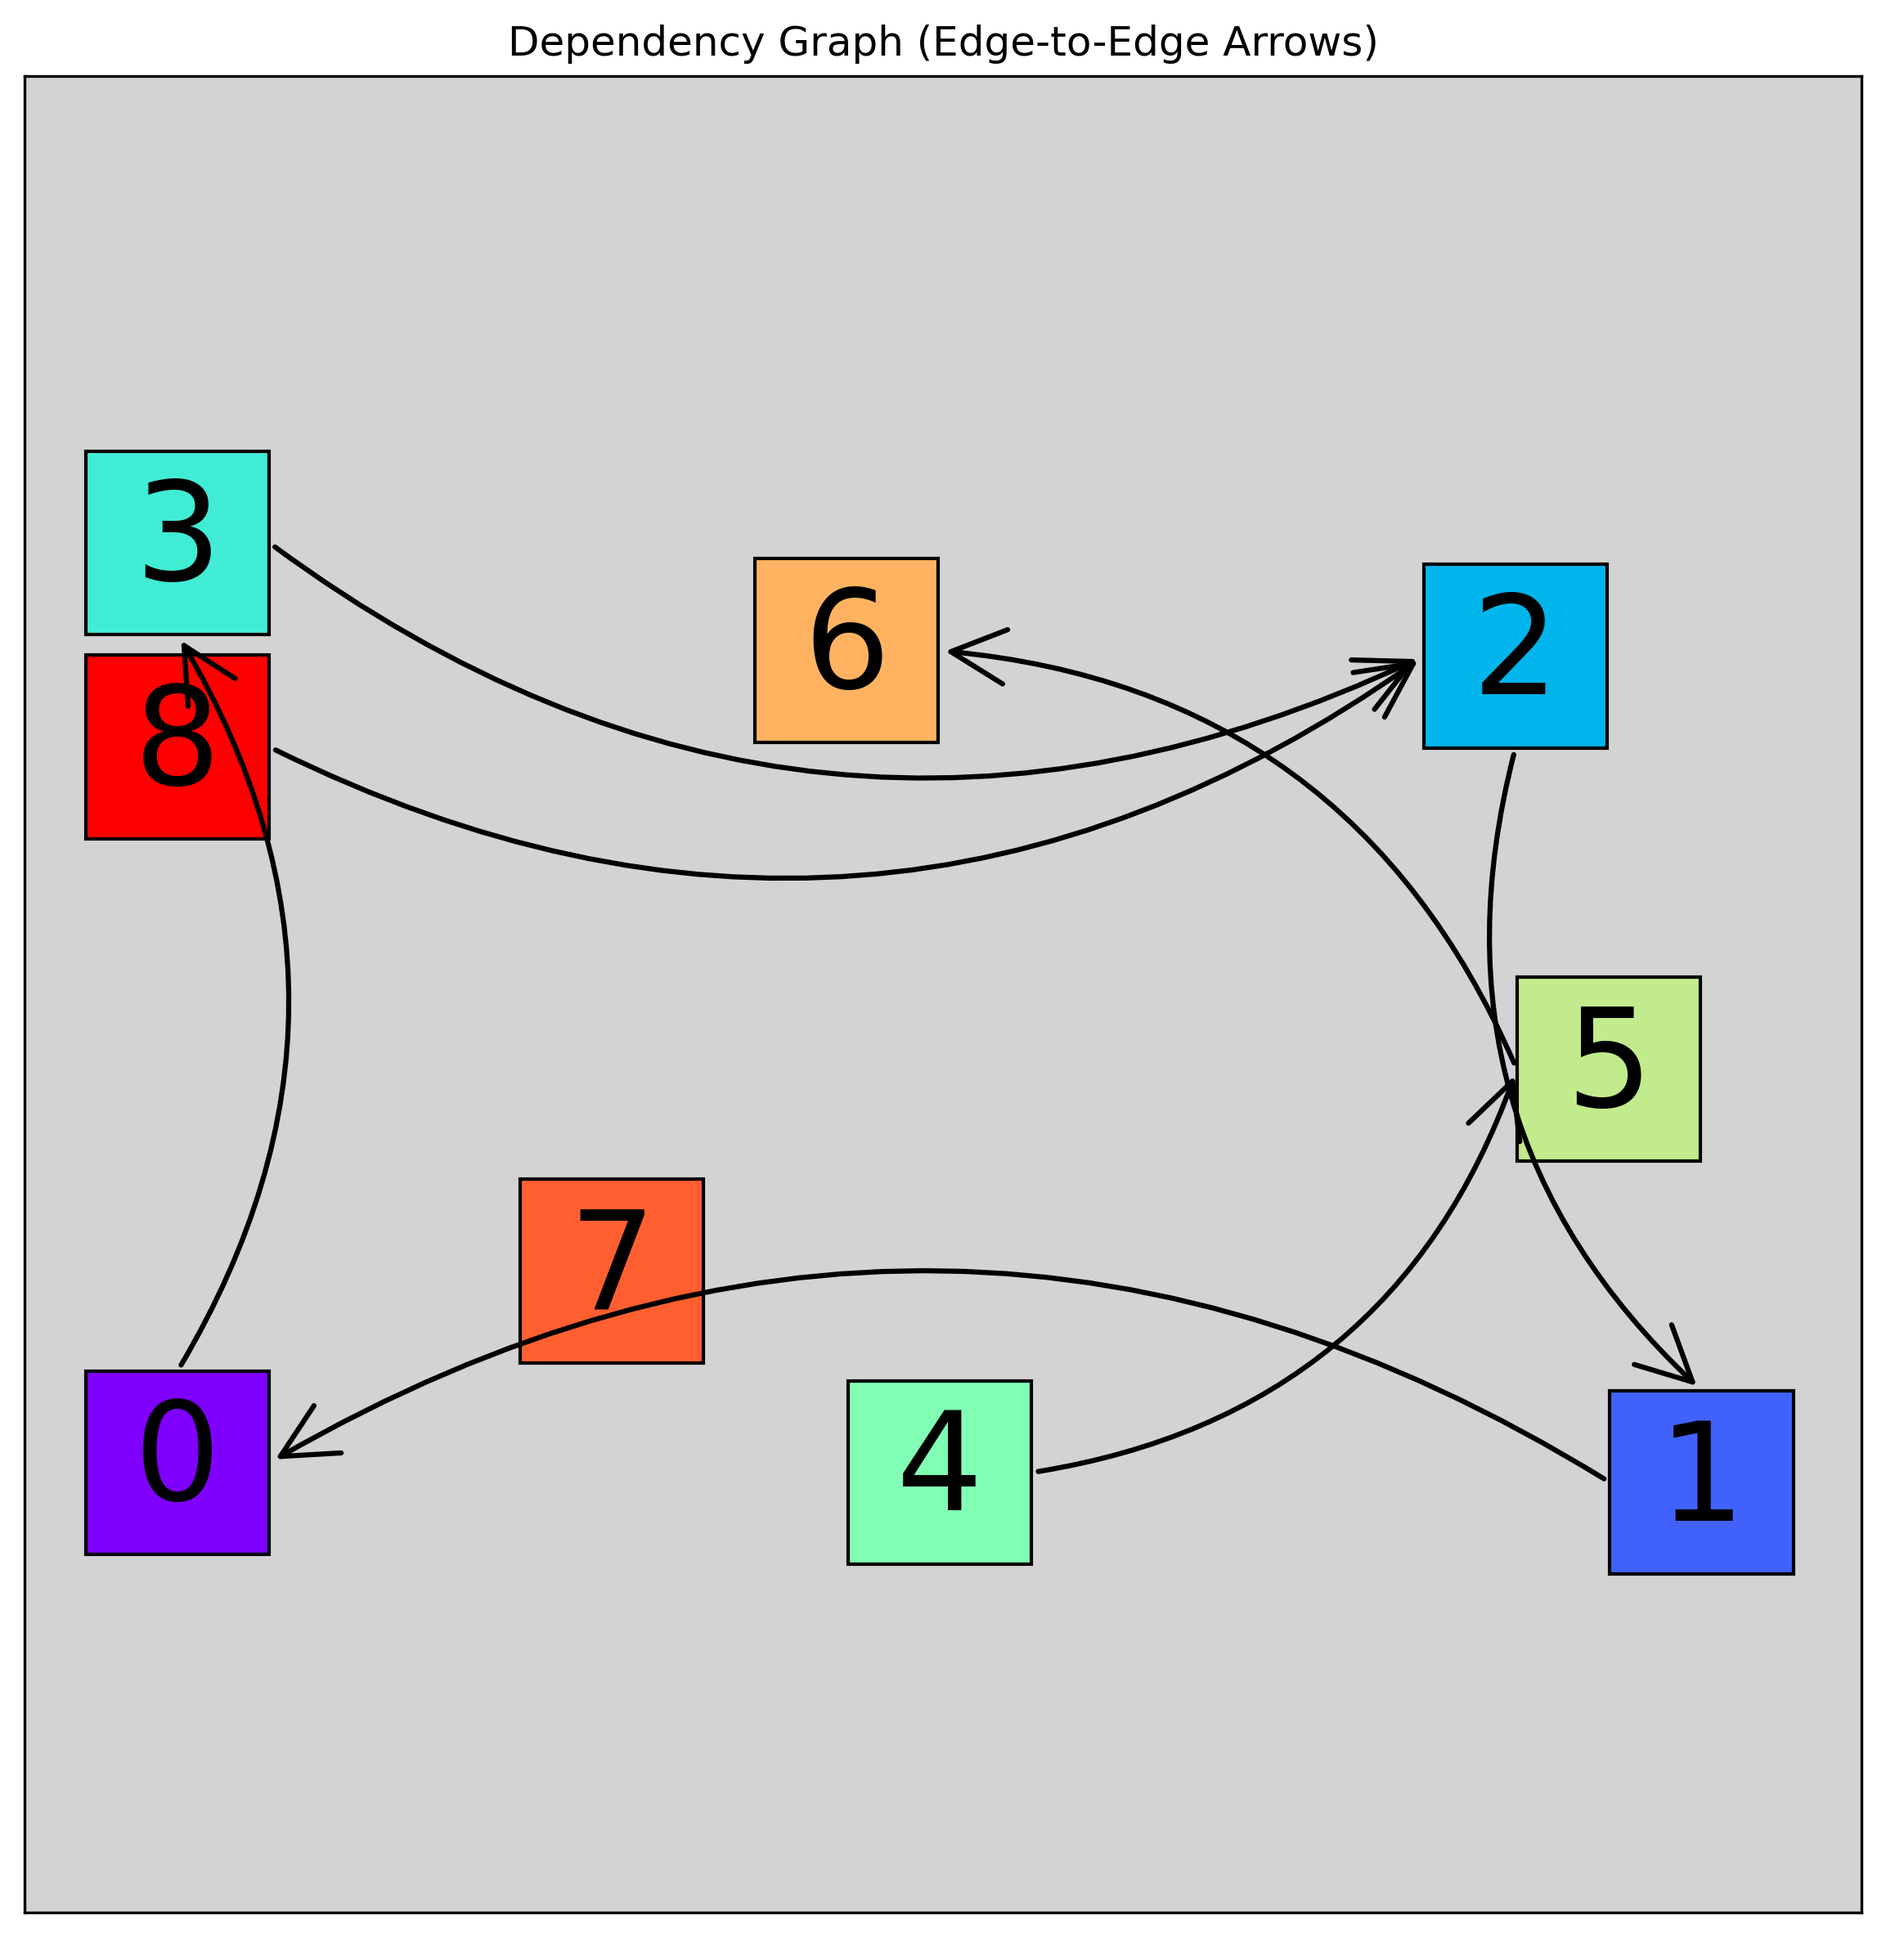
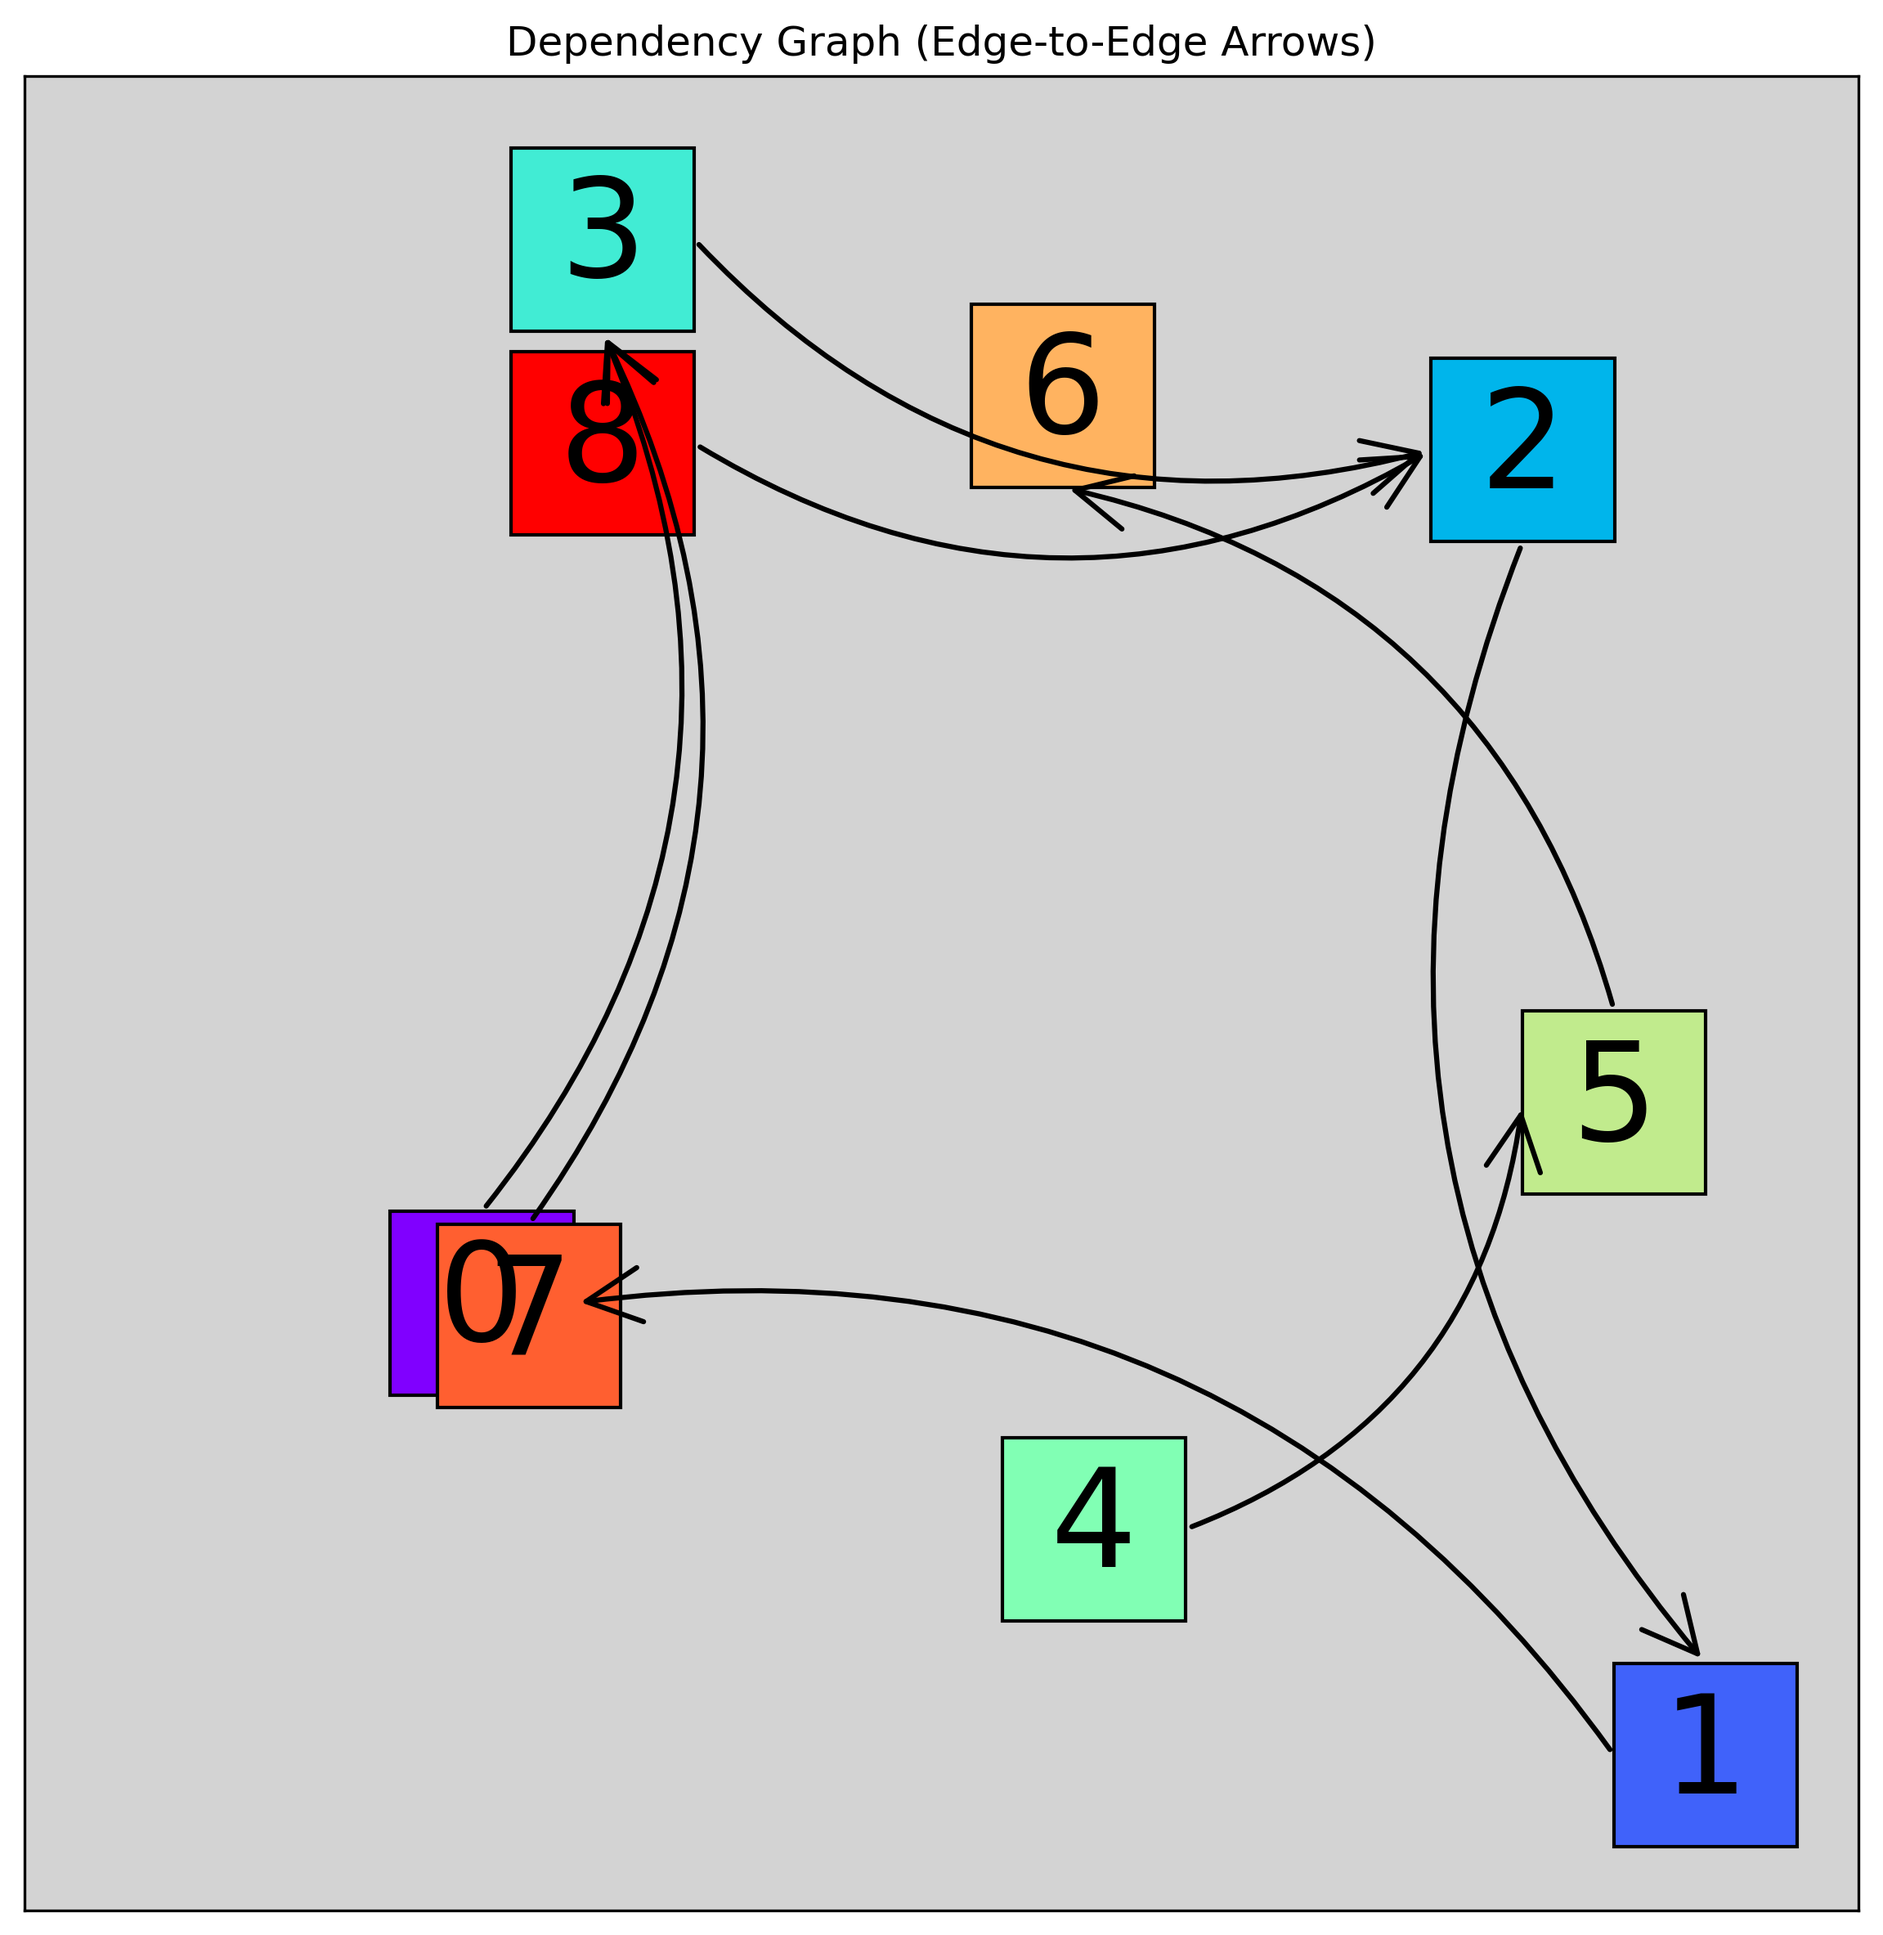
testing ppt

diff --git a/task.py b/task.py
@@ -513,7 +513,6 @@ class Task:
         # Layout setup
         section_width = width / 3 - Inches(0.5)
         section_margin = Inches(0.25)
-        top_margin = Inches(1.0)
 
         # VISUAL SIZE SETTINGS
         visual_table_size_inch = 3.0  # how large to draw the table
@@ -521,14 +520,13 @@ class Task:
         visual_object_size = self.object_size * scale  # scaled size of each square
         rect_size = Inches(visual_object_size)
         visual_table_size_inch = Inches(visual_table_size_inch)
-        print(f"Visual object size: {visual_object_size} inches")
-        print(f"rect_size: {rect_size} inches")
-        print(f"scale: {scale}")
 
         def draw_scene(scene_type, x_offset):
             # Draw the table (centered at 0,0)
-            table_left = x_offset + section_width / 2 - visual_table_size_inch / 2
-            table_top = top_margin + visual_table_size_inch / 2
+            table_center_x = x_offset + section_width / 2
+            table_center_y = height / 2
+            table_left = table_center_x - visual_table_size_inch / 2
+            table_top = height / 2 - visual_table_size_inch / 2
             table_rect = slide.shapes.add_shape(
                 MSO_SHAPE.RECTANGLE,
                 table_left, table_top,
@@ -544,10 +542,10 @@ class Task:
                 start = self.get_start(i)
                 goal = self.get_goal(i)
 
-                def draw_box(xy, label):
-                    x, y = xy[0], xy[1]
-                    left = x_offset + section_width / 2 + scale * x - rect_size / 2
-                    top = table_top + scale * y - rect_size / 2
+                def draw_box(xy, origin, label):
+                    x, y = xy[0] + origin[0], xy[1] + origin[1]
+                    left = scale * x - rect_size / 2
+                    top =  scale * y - rect_size / 2
                     shape = slide.shapes.add_shape(MSO_SHAPE.RECTANGLE, left, top, rect_size, rect_size)
                     fill = shape.fill
                     fill.solid()
@@ -562,13 +560,13 @@ class Task:
                     p.alignment = 1  # center
 
                 if scene_type in ['start', 'overlay']:
-                    draw_box(start, i)
+                    draw_box(start, (table_center_x, table_center_y), i)
                 if scene_type in ['goal', 'overlay']:
-                    draw_box(goal, i)
+                    draw_box(goal, (table_center_x, table_center_y), i)
 
         draw_scene('start', section_margin)
-        draw_scene('goal', section_margin + section_width + Inches(0.5))
-        draw_scene('overlay', section_margin + 2 * (section_width + Inches(0.5)))
+        draw_scene('goal', section_margin + section_width + section_margin)
+        draw_scene('overlay', section_margin + 2 * (section_width + section_margin))
 
         prs.save(ppt_path)
         print(f"Saved triptych slide to: {ppt_path}")
